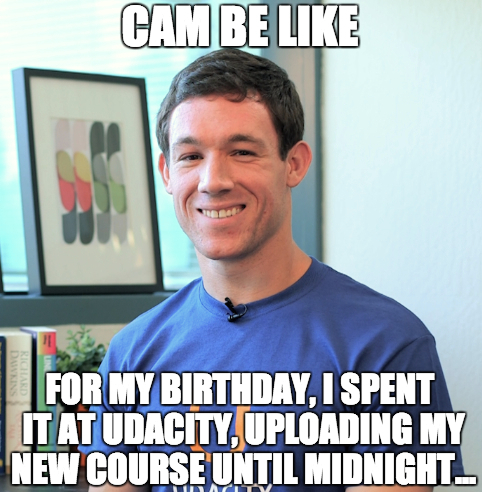
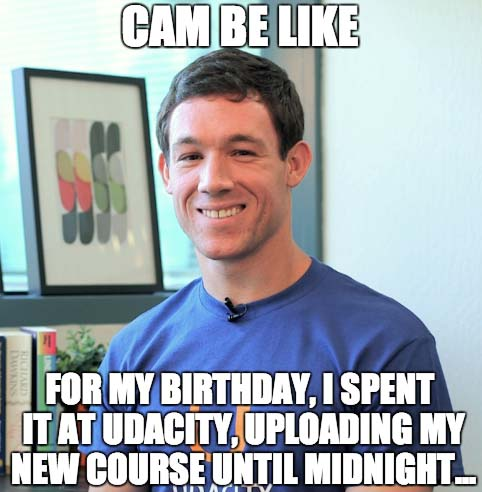
Optimized images

Changed region(s): [[0.4668, 0.8232, 0.4979, 0.8841], [0.4046, 0.9146, 0.4357, 0.9451], [0.1556, 0.9146, 0.1867, 0.9451]]

diff --git a/portfolio/project-2048.html b/portfolio/project-2048.html
@@ -38,7 +38,7 @@
 
       <div class="content">
 
-        <img class="img-responsive" src="http://cameronwp.github.io/udportfolio/img/2048.png">
+        <img class="img-responsive" src="http://cameronwp.github.io/udportfolio/img/2048.jpg">
 
         <p>Bacon ipsum dolor sit amet et pork belly porchetta excepteur dolor, laborum laboris magna labore dolore in fugiat beef ribs. Fugiat leberkas nulla do kevin dolore. Flank hamburger dolor swine prosciutto sirloin pig jerky sunt consequat pariatur. Mollit meatloaf nostrud laboris shoulder excepteur velit officia meatball nisi turkey. Nulla jowl spare ribs, et drumstick magna frankfurter.</p>
 
